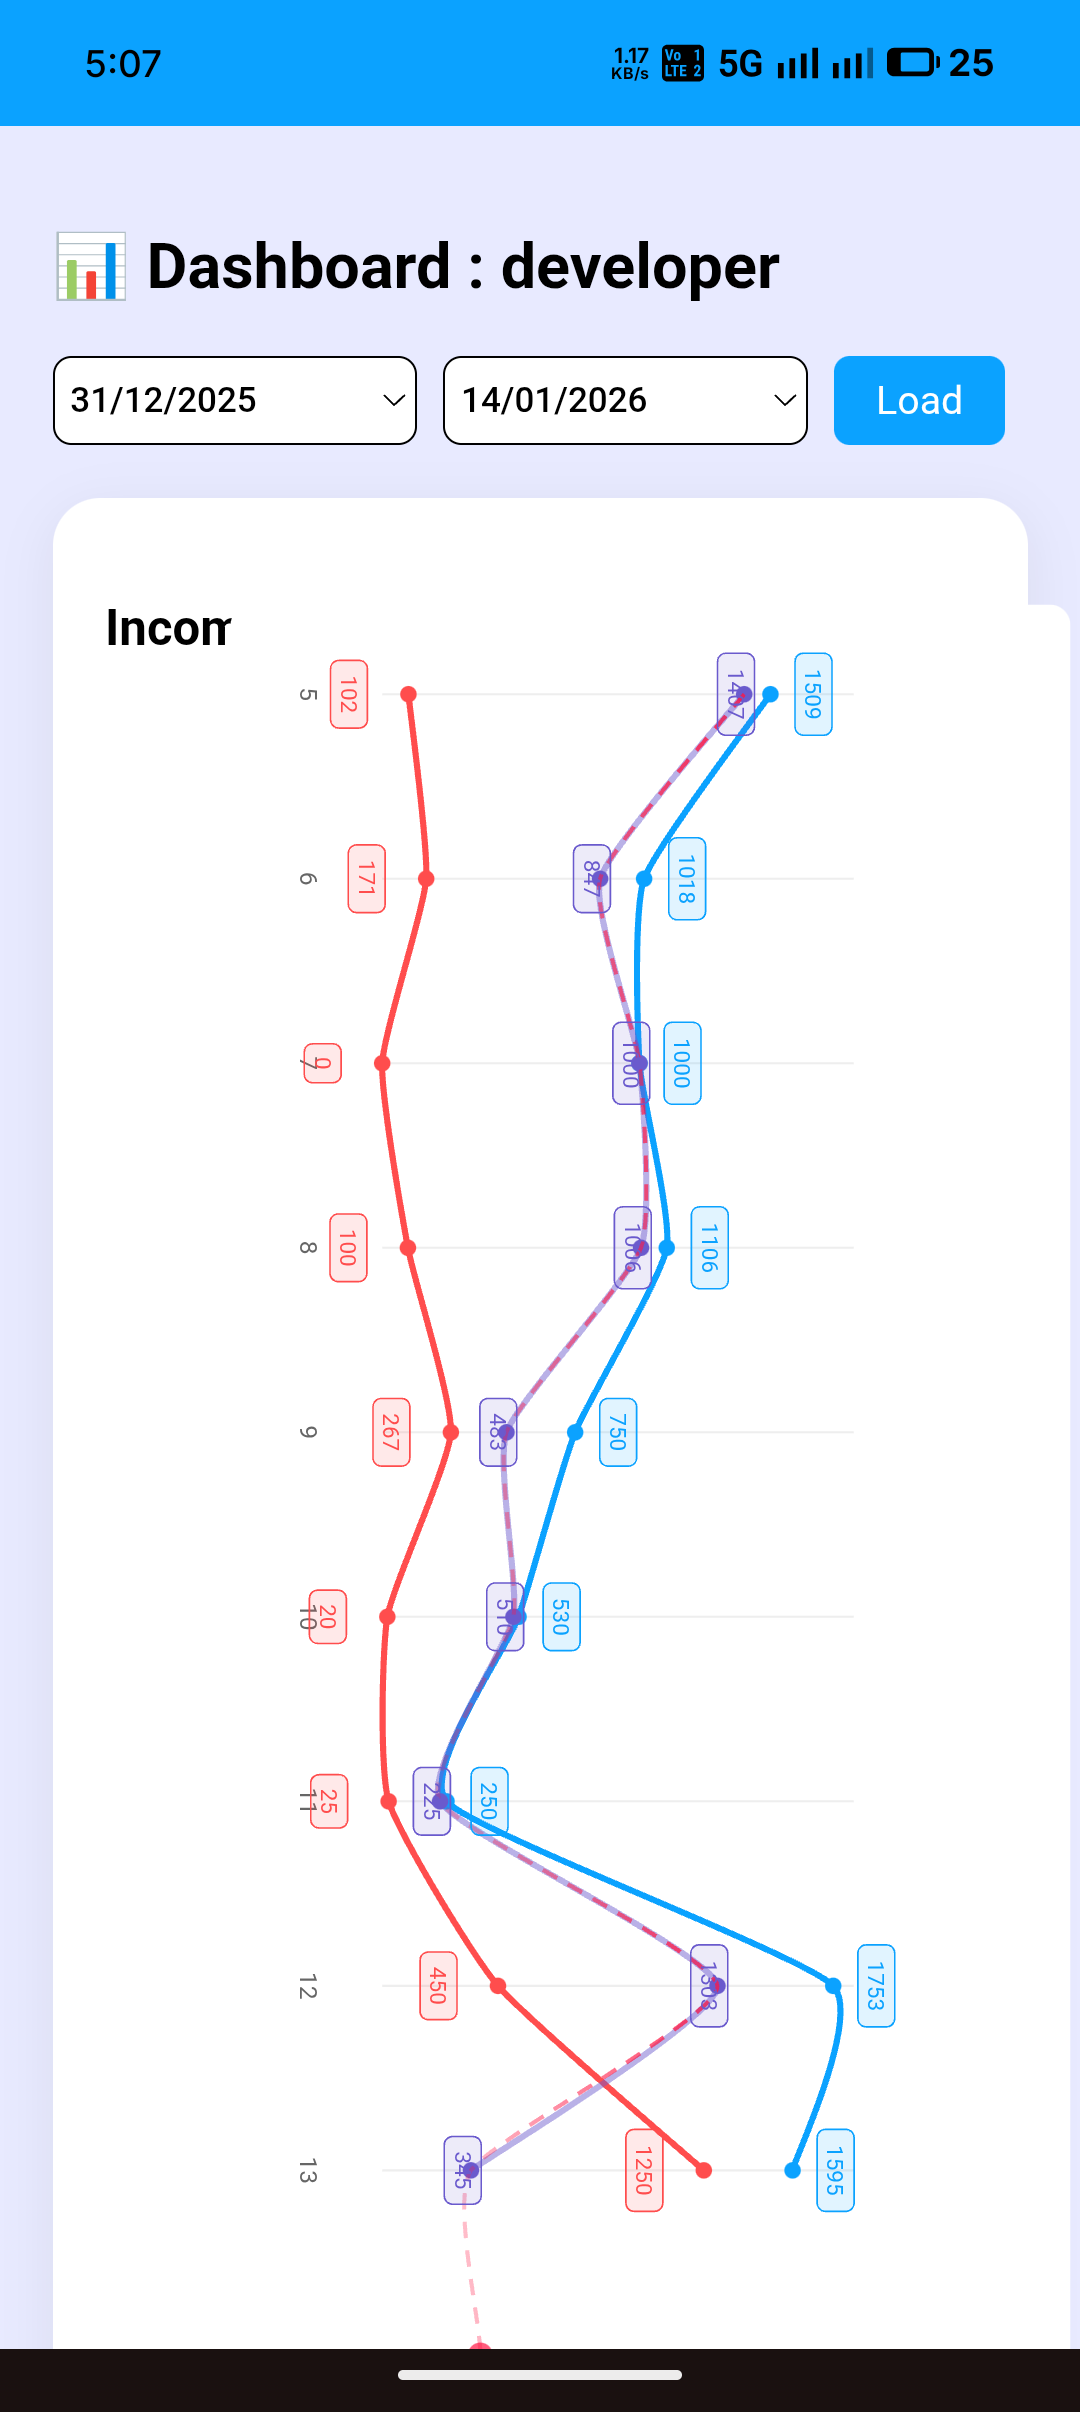
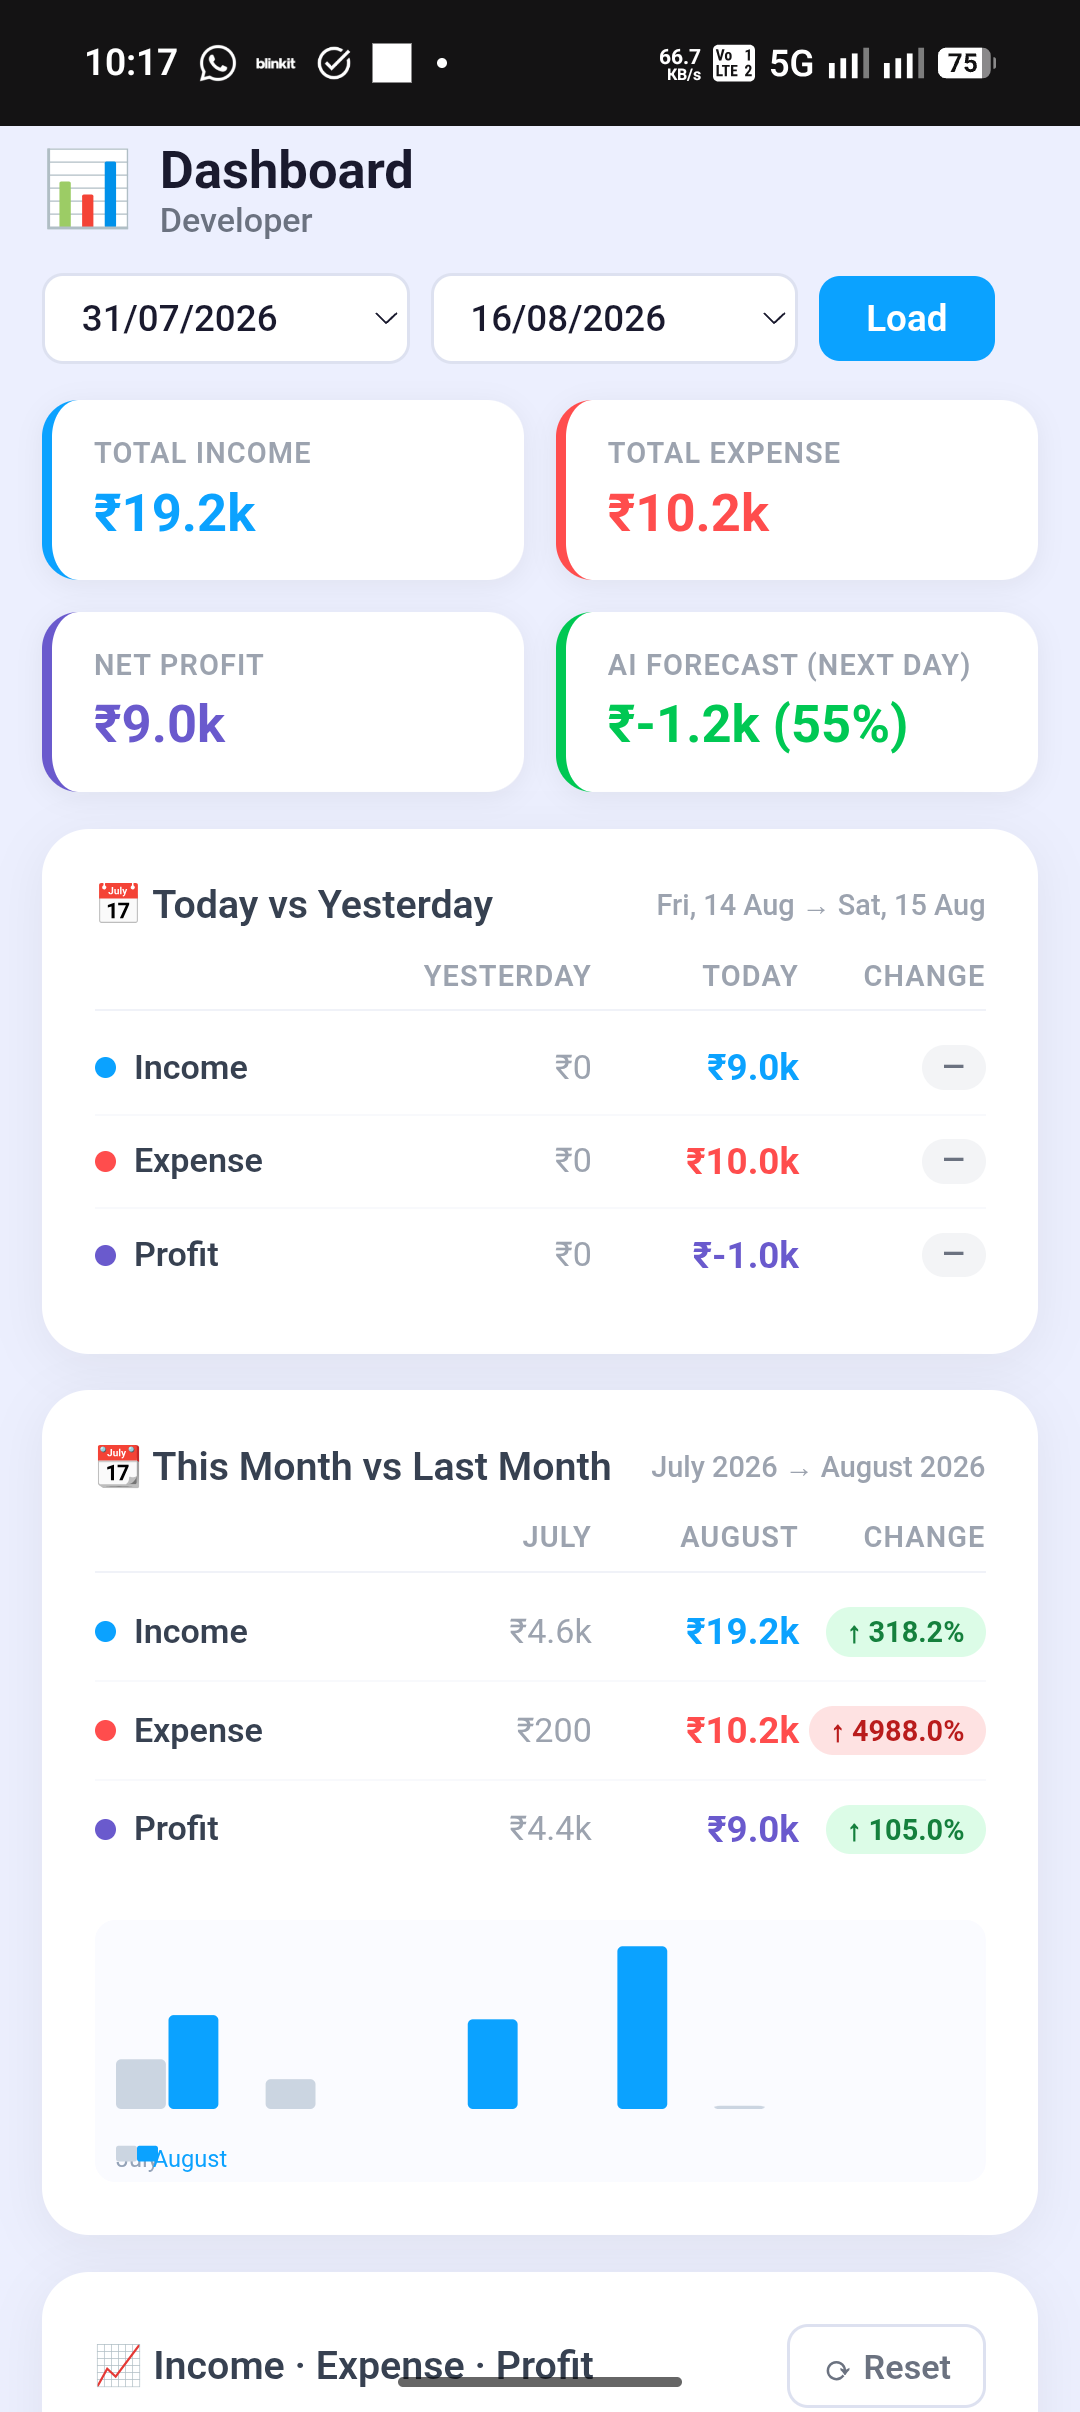
fixed signoit ussue

diff --git a/cashbook/main.js b/cashbook/main.js
@@ -4000,7 +4000,7 @@ document.getElementById('profile')?.addEventListener('click', e => {
     return;
   }
 
-  // Sign Out row
+// Sign Out row
   if (target.closest('#signOutRow')) {
     showOverlay({
       title: '🚪 Sign Out?',
@@ -4008,13 +4008,17 @@ document.getElementById('profile')?.addEventListener('click', e => {
       btnColor: '#ef4444',
     });
     // Override the overlay confirm button to call signOut
-    const btn = document.getElementById('alertBtn');
+    const btn = document.getElementById('confirmBtn');   // ← was 'alertBtn'
     if (btn) {
       btn.onclick = () => {
-        firebase.auth().signOut()
-          .then(() => location.reload())
-          .catch(err => showTopToast(err.message, '#ef4444'));
-      };
+  firebase.auth().signOut()
+    .then(() => {
+      localStorage.clear();
+      window.location.hash = 'home';
+      location.reload(true)
+    })
+    .catch(err => showTopToast(err.message, '#ef4444'));
+};
     }
     return;
   }

diff --git a/cashbook/style.css b/cashbook/style.css
@@ -1816,7 +1816,7 @@ summary.new::after{
 
 .login-box {
   max-width: 400px;
-  margin: 50px auto;
+  margin: 50px 16px;
   padding: 20px;
 }
 
